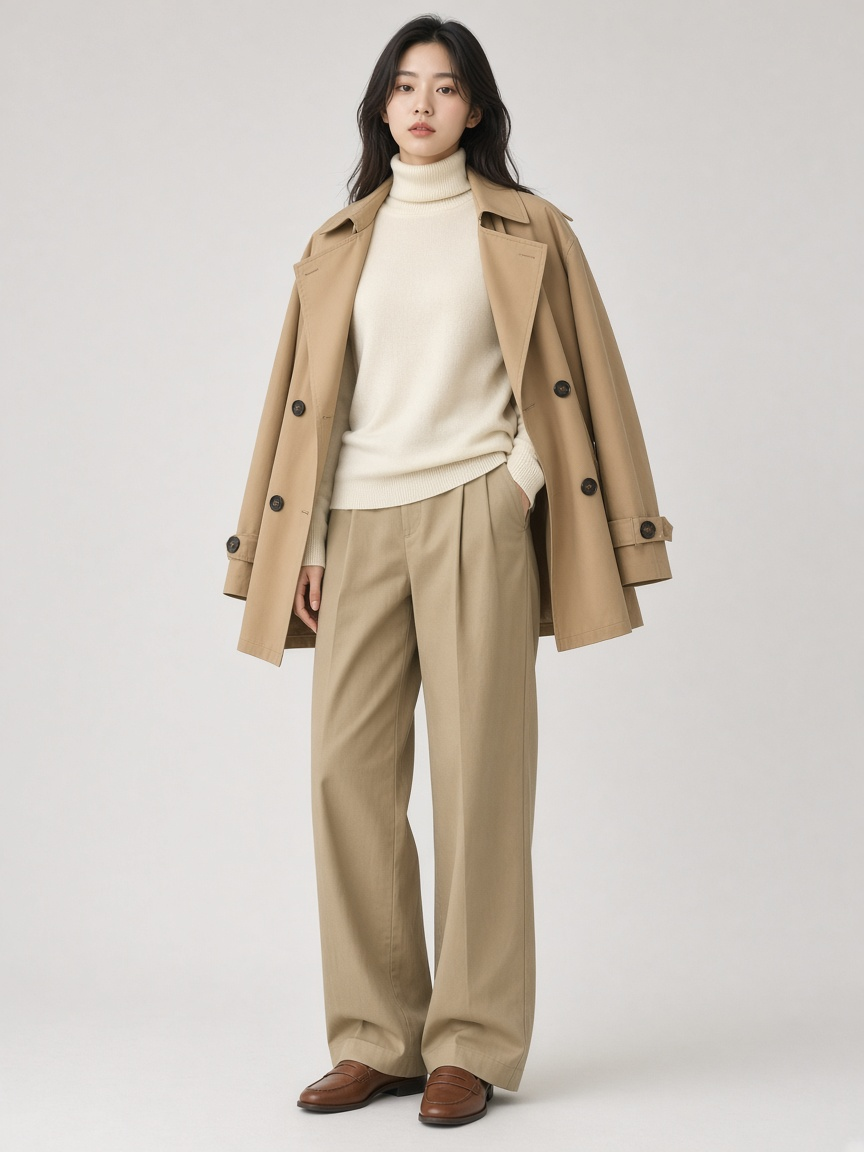
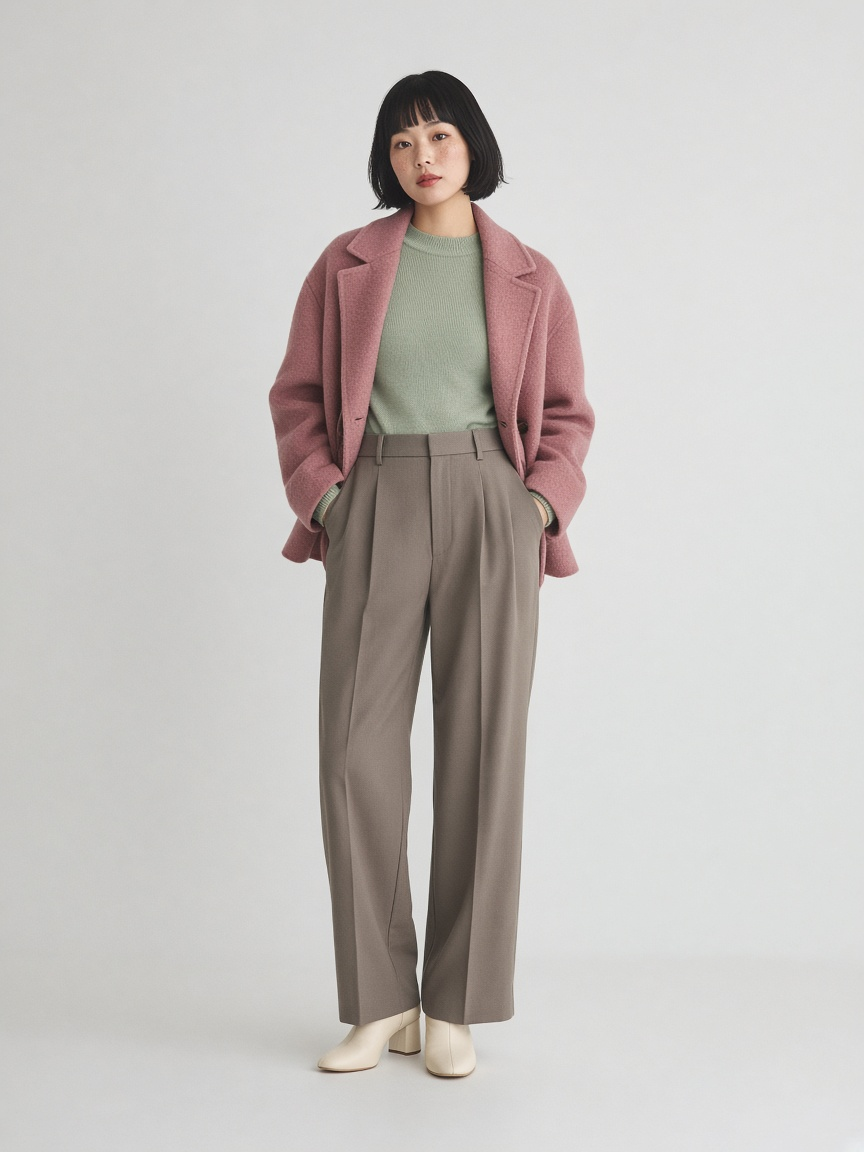
Refresh today's five fall looks for 2026-10-31
New try-on stills and pinned today ids for Shanghai fall day.

Changed region(s): [[0.0, 0.0, 0.8438, 1.0]]

diff --git a/data/config.js b/data/config.js
@@ -9,7 +9,7 @@ window.WARDROBE_CONFIG = {
     timezone: "Asia/Shanghai"
   },
   /* 今日专属五选：date 为 Asia/Shanghai YYYY-MM-DD 时，selectToday 优先按 ids 顺序返回 */
-  today: { date: "2026-10-30", ids: ["fa01", "fa02", "fa03", "fa04", "fa05"] },
+  today: { date: "2026-10-31", ids: ["fa01", "fa02", "fa03", "fa04", "fa05"] },
   /* 单品名 → 购买链接（暂用京东搜索；淘宝云端常被拦）。有精确商品页后可换成 item 链接。 */
   shop: {
     "驼色素色圆领针织": "https://search.jd.com/Search?keyword=%E9%A9%BC%E8%89%B2%E7%B4%A0%E8%89%B2%E5%9C%86%E9%A2%86%E9%92%88%E7%BB%87%20%E5%A5%B3&enc=utf-8",
@@ -71,7 +71,6 @@ window.WARDROBE_CONFIG = {
     "黑色烟管九分裤": "https://search.jd.com/Search?keyword=%E9%BB%91%E8%89%B2%E7%83%9F%E7%AE%A1%E4%B9%9D%E5%88%86%E8%A3%A4%20%E5%A5%B3&enc=utf-8",
     "黑色芭蕾平底鞋": "https://search.jd.com/Search?keyword=%E9%BB%91%E8%89%B2%E8%8A%AD%E8%95%BE%E5%B9%B3%E5%BA%95%E9%9E%8B%20%E5%A5%B3&enc=utf-8",
     "薄灰针织开衫": "https://search.jd.com/Search?keyword=%E8%96%84%E7%81%B0%E9%92%88%E7%BB%87%E5%BC%80%E8%A1%AB%20%E5%A5%B3&enc=utf-8",
-  },
     "奶油色半高领薄针织": "https://search.jd.com/Search?keyword=%E5%A5%B6%E6%B2%B9%E8%89%B2%E5%8D%8A%E9%AB%98%E9%A2%86%E8%96%84%E9%92%88%E7%BB%87%20%E5%A5%B3&enc=utf-8",
     "浅卡其阔腿裤": "https://search.jd.com/Search?keyword=%E6%B5%85%E5%8D%A1%E5%85%B6%E9%98%94%E8%85%BF%E8%A3%A4%20%E5%A5%B3&enc=utf-8",
     "棕色乐福鞋": "https://search.jd.com/Search?keyword=%E6%A3%95%E8%89%B2%E4%B9%90%E7%A6%8F%E9%9E%8B%20%E5%A5%B3&enc=utf-8",
@@ -91,6 +90,25 @@ window.WARDROBE_CONFIG = {
     "深灰九分西裤": "https://search.jd.com/Search?keyword=%E6%B7%B1%E7%81%B0%E4%B9%9D%E5%88%86%E8%A5%BF%E8%A3%A4%20%E5%A5%B3&enc=utf-8",
     "黑色乐福鞋": "https://search.jd.com/Search?keyword=%E9%BB%91%E8%89%B2%E4%B9%90%E7%A6%8F%E9%9E%8B%20%E5%A5%B3&enc=utf-8",
     "黑色短款皮夹克": "https://search.jd.com/Search?keyword=%E9%BB%91%E8%89%B2%E7%9F%AD%E6%AC%BE%E7%9A%AE%E5%A4%B9%E5%85%8B%20%E5%A5%B3&enc=utf-8",
+    "鼠尾草绿圆领细针织": "https://search.jd.com/Search?keyword=%E9%BC%A0%E5%B0%BE%E8%8D%89%E7%BB%BF%E5%9C%86%E9%A2%86%E7%BB%86%E9%92%88%E7%BB%87%20%E5%A5%B3&enc=utf-8",
+    "灰褐高腰阔腿裤": "https://search.jd.com/Search?keyword=%E7%81%B0%E8%A4%90%E9%AB%98%E8%85%B0%E9%98%94%E8%85%BF%E8%A3%A4%20%E5%A5%B3&enc=utf-8",
+    "米白踝靴": "https://search.jd.com/Search?keyword=%E7%B1%B3%E7%99%BD%E8%B8%9D%E9%9D%B4%20%E5%A5%B3&enc=utf-8",
+    "豆沙粉羊毛短外套": "https://search.jd.com/Search?keyword=%E8%B1%86%E6%B2%99%E7%B2%89%E7%BE%8A%E6%AF%9B%E7%9F%AD%E5%A4%96%E5%A5%97%20%E5%A5%B3&enc=utf-8",
+    "象牙白罗纹高领针织": "https://search.jd.com/Search?keyword=%E8%B1%A1%E7%89%99%E7%99%BD%E7%BD%97%E7%BA%B9%E9%AB%98%E9%A2%86%E9%92%88%E7%BB%87%20%E5%A5%B3&enc=utf-8",
+    "巧克力灯芯绒A字中裙": "https://search.jd.com/Search?keyword=%E5%B7%A7%E5%85%8B%E5%8A%9B%E7%81%AF%E8%8A%AF%E7%BB%92A%E5%AD%97%E4%B8%AD%E8%A3%99%20%E5%A5%B3&enc=utf-8",
+    "焦糖色乐福鞋": "https://search.jd.com/Search?keyword=%E7%84%A6%E7%B3%96%E8%89%B2%E4%B9%90%E7%A6%8F%E9%9E%8B%20%E5%A5%B3&enc=utf-8",
+    "炭灰双排扣西装外套": "https://search.jd.com/Search?keyword=%E7%82%AD%E7%81%B0%E5%8F%8C%E6%8E%92%E6%89%A3%E8%A5%BF%E8%A3%85%E5%A4%96%E5%A5%97%20%E5%A5%B3&enc=utf-8",
+    "燕麦色亨利领长袖针织": "https://search.jd.com/Search?keyword=%E7%87%95%E9%BA%A6%E8%89%B2%E4%BA%A8%E5%88%A9%E9%A2%86%E9%95%BF%E8%A2%96%E9%92%88%E7%BB%87%20%E5%A5%B3&enc=utf-8",
+    "靛蓝桶形牛仔裤": "https://search.jd.com/Search?keyword=%E9%9D%9B%E8%93%9D%E6%A1%B6%E5%BD%A2%E7%89%9B%E4%BB%94%E8%A3%A4%20%E5%A5%B3&enc=utf-8",
+    "苔绿轻薄绗缝马甲": "https://search.jd.com/Search?keyword=%E8%8B%94%E7%BB%BF%E8%BD%BB%E8%96%84%E7%BB%97%E7%BC%9D%E9%A9%AC%E7%94%B2%20%E5%A5%B3&enc=utf-8",
+    "铁锈橙针织毛衣裙": "https://search.jd.com/Search?keyword=%E9%93%81%E9%94%88%E6%A9%99%E9%92%88%E7%BB%87%E6%AF%9B%E8%A1%A3%E8%A3%99%20%E5%A5%B3&enc=utf-8",
+    "黑色连裤袜": "https://search.jd.com/Search?keyword=%E9%BB%91%E8%89%B2%E8%BF%9E%E8%A3%A4%E8%A2%9C%20%E5%A5%B3&enc=utf-8",
+    "驼色系带风衣": "https://search.jd.com/Search?keyword=%E9%A9%BC%E8%89%B2%E7%B3%BB%E5%B8%A6%E9%A3%8E%E8%A1%A3%20%E5%A5%B3&enc=utf-8",
+    "淡蓝牛津纺衬衫": "https://search.jd.com/Search?keyword=%E6%B7%A1%E8%93%9D%E7%89%9B%E6%B4%A5%E7%BA%BA%E8%A1%AC%E8%A1%AB%20%E5%A5%B3&enc=utf-8",
+    "黑色高腰烟管裤": "https://search.jd.com/Search?keyword=%E9%BB%91%E8%89%B2%E9%AB%98%E8%85%B0%E7%83%9F%E7%AE%A1%E8%A3%A4%20%E5%A5%B3&enc=utf-8",
+    "黑色玛丽珍平底鞋": "https://search.jd.com/Search?keyword=%E9%BB%91%E8%89%B2%E7%8E%9B%E4%B8%BD%E7%8F%8D%E5%B9%B3%E5%BA%95%E9%9E%8B%20%E5%A5%B3&enc=utf-8",
+    "奶油色短款开衫": "https://search.jd.com/Search?keyword=%E5%A5%B6%E6%B2%B9%E8%89%B2%E7%9F%AD%E6%AC%BE%E5%BC%80%E8%A1%AB%20%E5%A5%B3&enc=utf-8",
+  },
   /* 试穿图：主体+衣服的合成图放进 assets/img/looks/，image 填相对路径；有图则今日大图展示 */
   looks: [
     /* —— 夏 Summer ×7 —— */
@@ -152,44 +170,44 @@ window.WARDROBE_CONFIG = {
     },
     /* —— 秋 Fall ×7 —— */
     {
-      id: "fa01", season: "fall", name: "奶油半高领与卡其阔腿",
-      pieces: { top: "奶油色半高领薄针织", bottom: "浅卡其阔腿裤", shoes: "棕色乐福鞋", extras: ["驼色短风衣"] },
-      owned: ["奶油色半高领薄针织", "浅卡其阔腿裤", "棕色乐福鞋"],
-      buy: ["驼色短风衣"],
-      tags: ["layer", "mid", "dry"], image: "assets/img/looks/fa01.jpg?v=20261030a",
-      blurb: "晨雾偏凉，风衣可脱。"
+      id: "fa01", season: "fall", name: "鼠尾草针织与灰褐阔腿",
+      pieces: { top: "鼠尾草绿圆领细针织", bottom: "灰褐高腰阔腿裤", shoes: "米白踝靴", extras: ["豆沙粉羊毛短外套"] },
+      owned: ["鼠尾草绿圆领细针织", "灰褐高腰阔腿裤", "米白踝靴"],
+      buy: ["豆沙粉羊毛短外套"],
+      tags: ["layer", "mid", "dry"], image: "assets/img/looks/fa01.jpg?v=20261031a",
+      blurb: "晴冷晨约13°C，短外套可脱；午间近23°C仍清爽。"
     },
     {
-      id: "fa02", season: "fall", name: "白衬衫叠深灰背心",
-      pieces: { top: "乳白尖领衬衫", bottom: "中蓝直筒牛仔裤", shoes: "白色厚底小白鞋", extras: ["深灰V领针织背心"] },
-      owned: ["乳白尖领衬衫", "中蓝直筒牛仔裤", "白色厚底小白鞋"],
-      buy: ["深灰V领针织背心"],
-      tags: ["layer", "casual", "dry"], image: "assets/img/looks/fa02.jpg?v=20261030a",
-      blurb: "背心叠穿，午后可单穿衬衫。"
+      id: "fa02", season: "fall", name: "象牙白高领与灯芯绒裙",
+      pieces: { top: "象牙白罗纹高领针织", bottom: "巧克力灯芯绒A字中裙", shoes: "焦糖色乐福鞋", extras: ["炭灰双排扣西装外套"] },
+      owned: ["象牙白罗纹高领针织", "巧克力灯芯绒A字中裙", "焦糖色乐福鞋"],
+      buy: ["炭灰双排扣西装外套"],
+      tags: ["layer", "smart", "dry"], image: "assets/img/looks/fa02.jpg?v=20261031a",
+      blurb: "轻正式叠穿，西装午后可挂。"
     },
     {
-      id: "fa03", season: "fall", name: "焦糖灯芯绒与直筒牛仔",
-      pieces: { top: "米白长袖圆领T恤", bottom: "石洗浅蓝直筒牛仔裤", shoes: "焦糖色踝靴", extras: ["焦糖灯芯绒短外套"] },
-      owned: ["米白长袖圆领T恤", "石洗浅蓝直筒牛仔裤", "焦糖色踝靴"],
-      buy: ["焦糖灯芯绒短外套"],
-      tags: ["layer", "weekend", "dry"], image: "assets/img/looks/fa03.jpg?v=20261030a",
-      blurb: "周末街逛，外套随脱。"
+      id: "fa03", season: "fall", name: "燕麦亨利衫与桶形牛仔",
+      pieces: { top: "燕麦色亨利领长袖针织", bottom: "靛蓝桶形牛仔裤", shoes: "白色厚底小白鞋", extras: ["苔绿轻薄绗缝马甲"] },
+      owned: ["燕麦色亨利领长袖针织", "靛蓝桶形牛仔裤", "白色厚底小白鞋"],
+      buy: ["苔绿轻薄绗缝马甲"],
+      tags: ["layer", "casual", "weekend", "dry"], image: "assets/img/looks/fa03.jpg?v=20261031a",
+      blurb: "周末街逛，马甲随脱。"
     },
     {
-      id: "fa04", season: "fall", name: "酒红针织裙与米色风衣",
-      pieces: { onePiece: "酒红圆领针织中长裙", shoes: "深棕踝靴", extras: ["米色中长风衣"] },
-      owned: ["酒红圆领针织中长裙", "深棕踝靴"],
-      buy: ["米色中长风衣"],
-      tags: ["layer", "smart", "jacket", "dry"], image: "assets/img/looks/fa04.jpg?v=20261030a",
-      blurb: "轻正式，风衣挡晨雾。"
+      id: "fa04", season: "fall", name: "铁锈橙针织裙与驼风衣",
+      pieces: { onePiece: "铁锈橙针织毛衣裙", shoes: "黑色短靴", extras: ["黑色连裤袜", "驼色系带风衣"] },
+      owned: ["铁锈橙针织毛衣裙", "黑色短靴", "黑色连裤袜"],
+      buy: ["驼色系带风衣"],
+      tags: ["layer", "smart", "jacket", "dry"], image: "assets/img/looks/fa04.jpg?v=20261031a",
+      blurb: "晨凉披风衣，午间单穿裙装即可。"
     },
     {
-      id: "fa05", season: "fall", name: "麻灰套头衫与九分西裤",
-      pieces: { top: "麻灰色圆领套头针织", bottom: "深灰九分西裤", shoes: "黑色乐福鞋", extras: ["黑色短款皮夹克"] },
-      owned: ["麻灰色圆领套头针织", "深灰九分西裤", "黑色乐福鞋"],
-      buy: ["黑色短款皮夹克"],
-      tags: ["smart", "layer", "jacket", "dry"], image: "assets/img/looks/fa05.jpg?v=20261030a",
-      blurb: "通勤利落，夹克可脱。"
+      id: "fa05", season: "fall", name: "淡蓝牛津衫与烟管裤",
+      pieces: { top: "淡蓝牛津纺衬衫", bottom: "黑色高腰烟管裤", shoes: "黑色玛丽珍平底鞋", extras: ["奶油色短款开衫"] },
+      owned: ["淡蓝牛津纺衬衫", "黑色高腰烟管裤", "黑色玛丽珍平底鞋"],
+      buy: ["奶油色短款开衫"],
+      tags: ["smart", "layer", "commute", "dry"], image: "assets/img/looks/fa05.jpg?v=20261031a",
+      blurb: "通勤干净，开衫应对早晚温差。"
     },
 
     {
